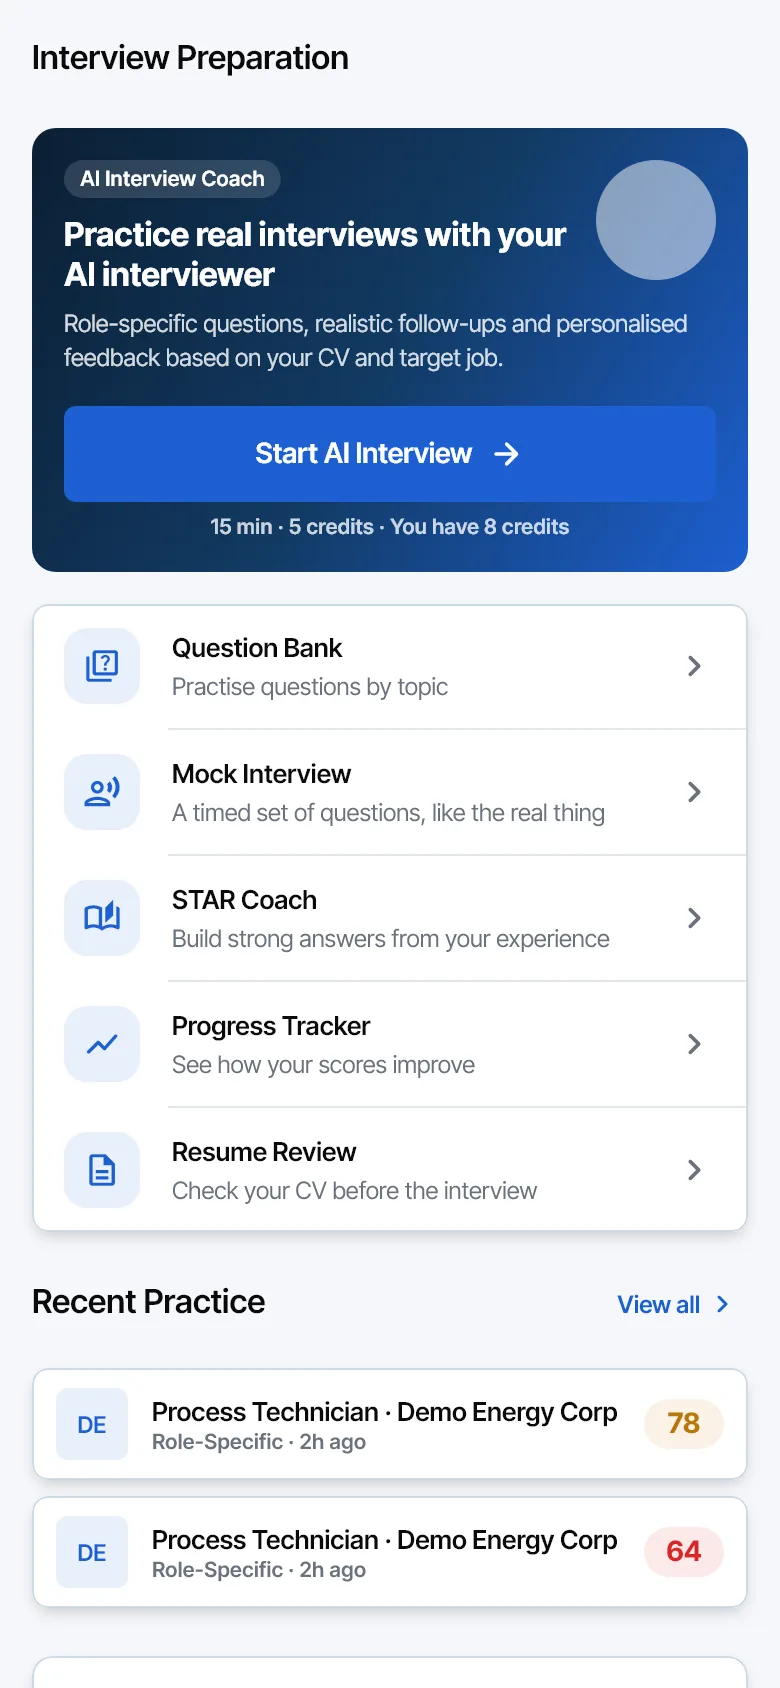
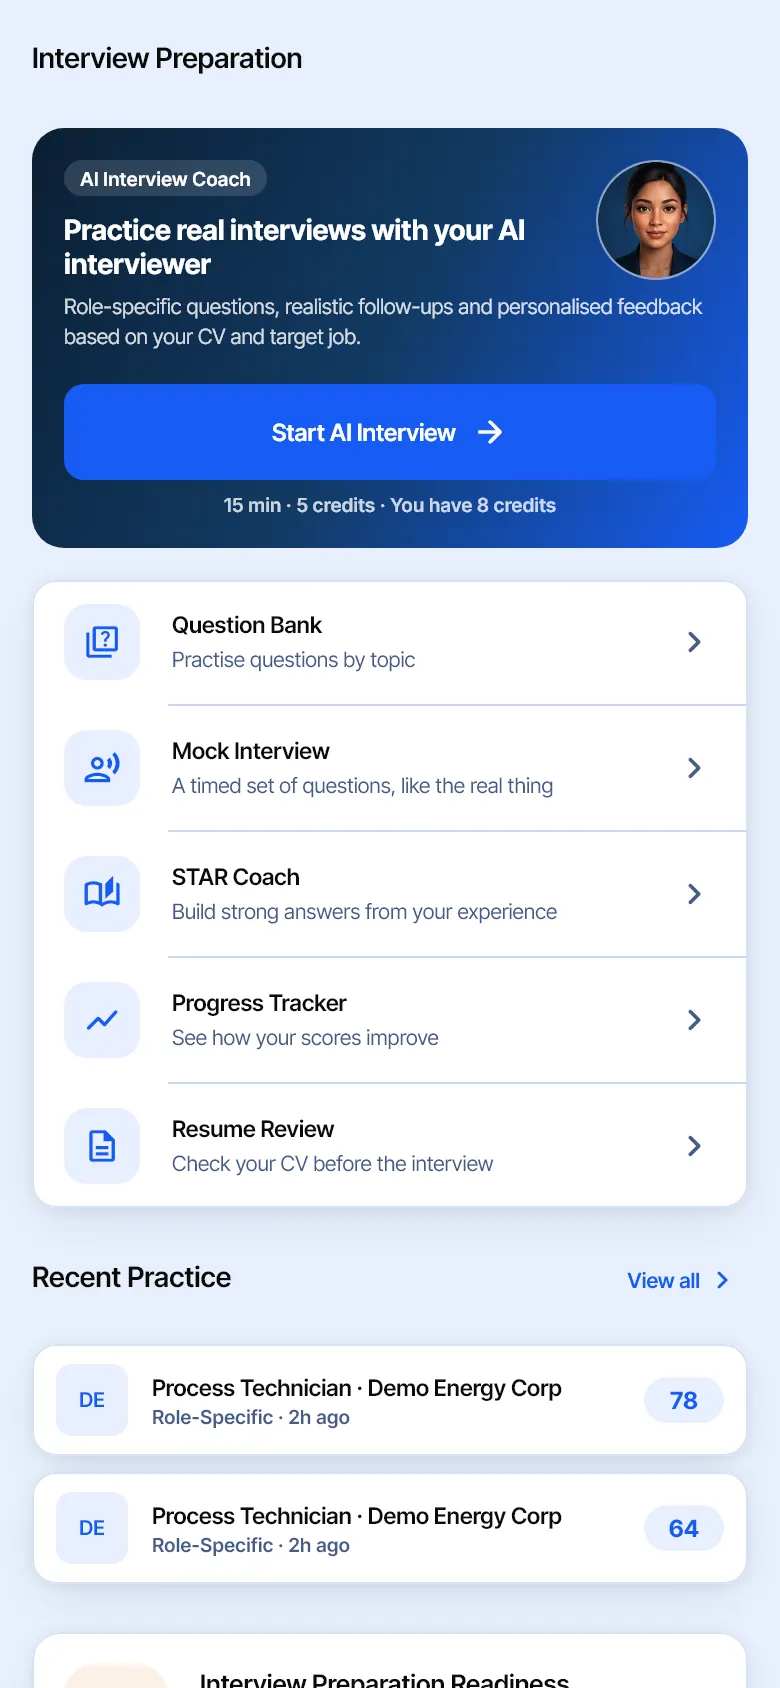
New app screenshots (Noetra Careers)

diff --git a/index.html b/index.html
@@ -328,7 +328,7 @@
             <a class="play-badge" href="https://play.google.com/store/apps/details?id=com.careeros.careeros&amp;referrer=utm_source%3Dsite%26utm_medium%3Dlanding%26utm_campaign%3Dhome"><img src="https://play.google.com/intl/en_us/badges/static/images/badges/en_badge_web_generic.png" alt="Get it on Google Play" width="646" height="250" loading="lazy"></a>
           </div>
           <div class="cta-visual">
-            <div class="phone cta-phone"><img src="assets/screen-ai-interviewer.webp" alt="Noetra AI interviewer hub" width="780" height="1688" loading="lazy" decoding="async"></div>
+            <div class="phone cta-phone"><img src="assets/screen-ai-interviewer.webp" alt="Noetra AI interviewer asking a question in a live practice interview" width="780" height="1688" loading="lazy" decoding="async"></div>
             <ul class="float-cards cta-cards" aria-label="Why people use Noetra Careers">
               <li class="float-card"><span class="fc-icon blue" aria-hidden="true"><svg viewBox="0 0 24 24"><rect x="3" y="7" width="18" height="13" rx="2"/><path d="M8 7V5a2 2 0 0 1 2-2h4a2 2 0 0 1 2 2v2"/></svg></span><span>New opportunities</span></li>
               <li class="float-card"><span class="fc-icon blue" aria-hidden="true"><svg viewBox="0 0 24 24"><path d="M12 3l2.5 5 5.5.8-4 3.9.9 5.5L12 15.6 7.1 18.2 8 12.7 4 8.8 9.5 8z"/></svg></span><span>Better preparation</span></li>
